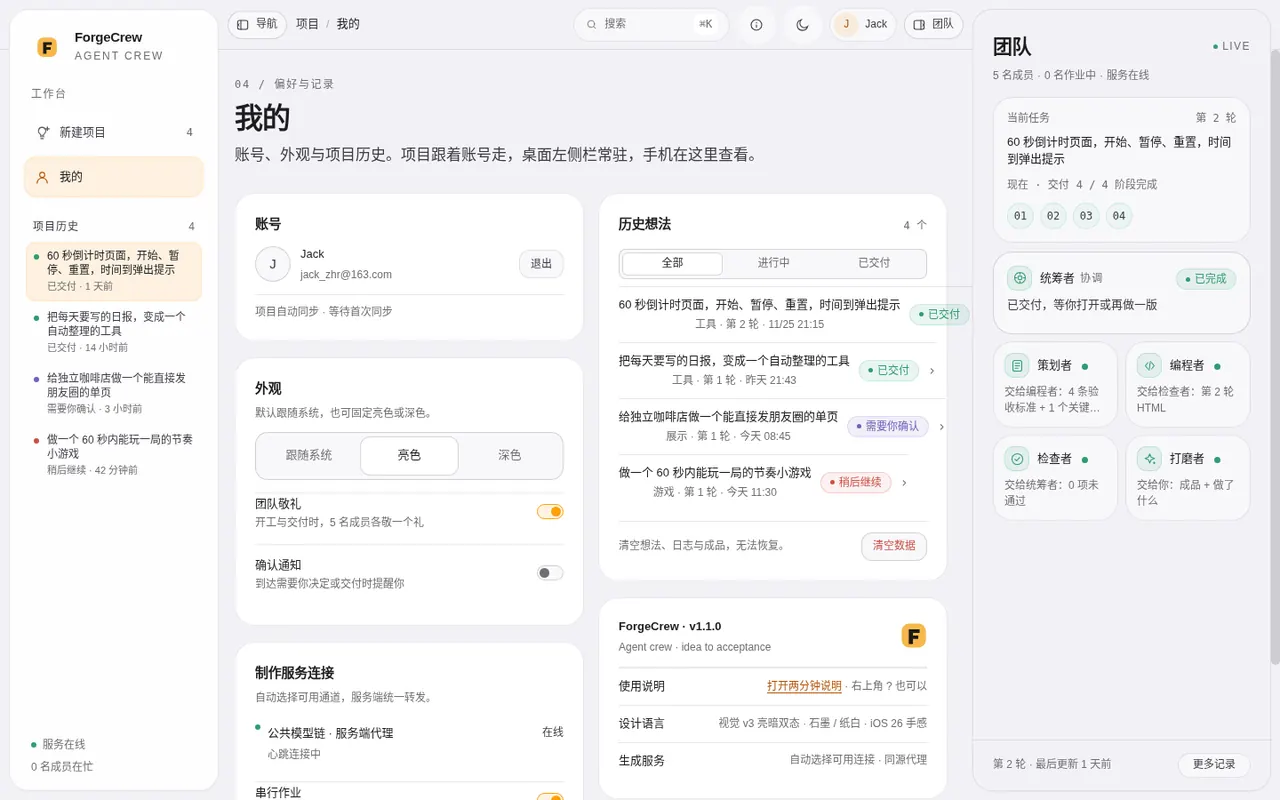
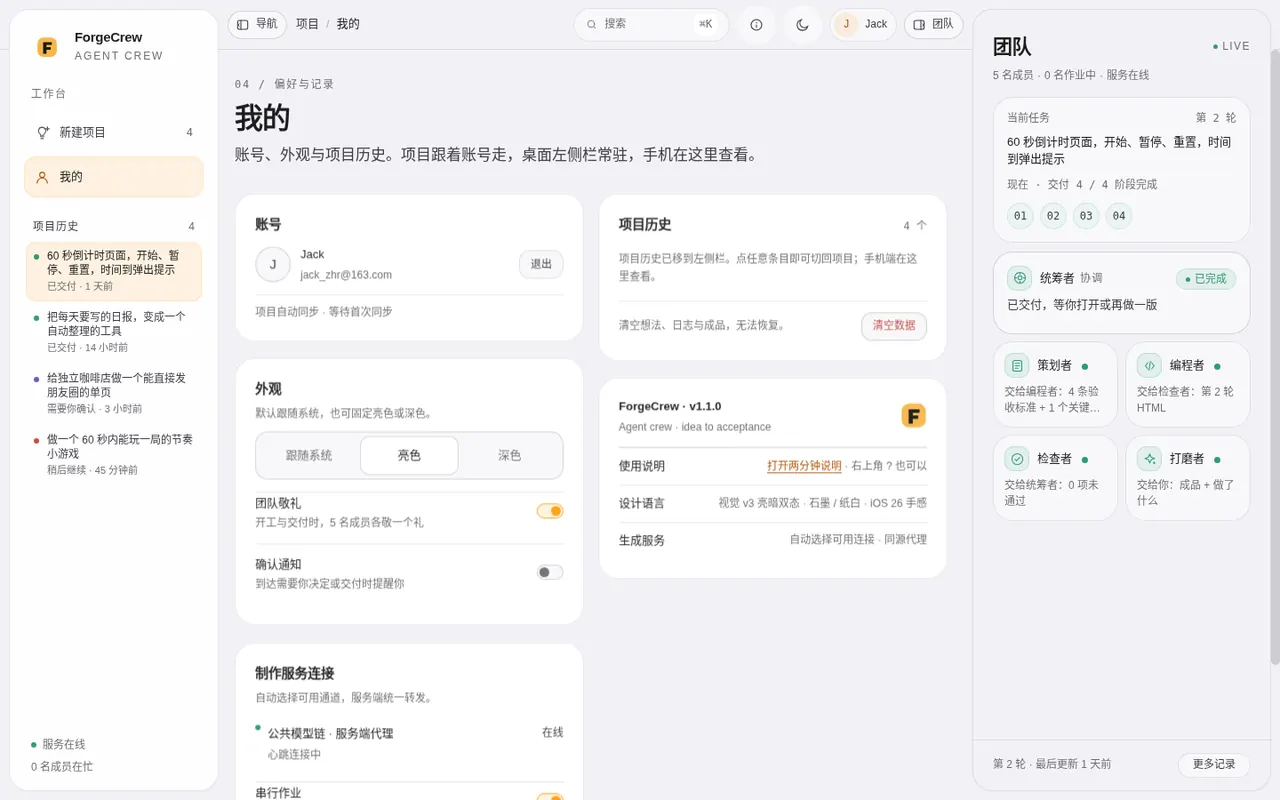
fix: hide duplicate history on desktop profile

diff --git a/web/js/main.js b/web/js/main.js
@@ -1260,7 +1260,7 @@ function guideHtml() {
         <div>
           <h3>账号、外观和项目历史</h3>
           <p>登录后项目跟着账号走。“我的”页可以切换跟随系统 / 深色 / 亮色，打开确认通知，查看今日调用；切换外观会立即生效，不再弹提示。项目历史在桌面左侧栏常驻，手机端在“我的”页查看，点条目就能切回。</p>
-          <figure><a href="/assets/guide/profile.webp" target="_blank" rel="noreferrer"><img src="/assets/guide/profile.webp" alt="我的页账号、外观与项目历史" loading="lazy"></a><figcaption>我的页：账号、外观、服务连接与项目历史。</figcaption></figure>
+          <figure><a href="/assets/guide/profile.webp" target="_blank" rel="noreferrer"><img src="/assets/guide/profile.webp" alt="我的页账号、外观与项目历史" loading="lazy"></a><figcaption>我的页：账号、外观、服务连接；项目历史在左栏，手机在此查看。</figcaption></figure>
         </div>
       </section>
     </div>
@@ -1384,12 +1384,15 @@ function profileHtml() {
     </div>
 
     <div>
-      <div class="panel">
-        <div class="section-head" style="margin-bottom:10px"><h3>历史想法</h3><span class="meta" style="margin-left:auto">${state.projects.length} 个</span></div>
-        <div class="history-tabs segmented" role="tablist">
-          ${['全部', '进行中', '已交付'].map((t, i) => `<button type="button" aria-selected="${i === 0}" style="pointer-events:none">${t}</button>`).join('')}
+      <div class="panel profile-history-panel">
+        <div class="section-head" style="margin-bottom:10px"><h3>项目历史</h3><span class="meta" style="margin-left:auto">${state.projects.length} 个</span></div>
+        <div class="history-moved">项目历史已移到左侧栏。点任意条目即可切回项目；手机端在这里查看。</div>
+        <div class="history-body">
+          <div class="history-tabs segmented" role="tablist">
+            ${['全部', '进行中', '已交付'].map((t, i) => `<button type="button" aria-selected="${i === 0}" style="pointer-events:none">${t}</button>`).join('')}
+          </div>
+          ${historyRowsHtml()}
         </div>
-        ${historyRowsHtml()}
         <div class="danger-zone">
           <span class="txt">清空想法、日志与成品，无法恢复。</span>
           <span class="side"><button class="btn small ghost-danger" id="clear-start" type="button">清空数据</button></span>

diff --git a/web/css/app.css b/web/css/app.css
@@ -680,6 +680,16 @@ input, textarea { font: inherit; color: inherit; }
 .channel-row .txt b { display: block; font-size: 13px; font-weight: 500; color: var(--text); }
 .channel-row .txt span { display: block; margin-top: 4px; font-size: 12px; color: var(--text-3); }
 .channel-row .side { margin-left: auto; font-size: 12px; color: var(--text-2); }
+
+.history-moved { display: none; }
+@media (min-width: 761px) {
+  .profile-history-panel .history-body { display: none; }
+  .profile-history-panel .history-moved {
+    display: block; font-size: 12px; line-height: 1.65; color: var(--text-3);
+    padding: 2px 0 4px;
+  }
+}
+
 .history-tabs { width: 100%; margin: 2px 0 8px; display: flex; }
 .history-tabs button { flex: 1 1 0; min-width: 0; padding: 0 6px; font-size: 12px; white-space: nowrap; letter-spacing: 0; overflow: hidden; text-overflow: ellipsis; }
 .about-product { display: flex; align-items: center; justify-content: space-between; gap: 12px; padding-bottom: 12px; border-bottom: 1px solid var(--line); }

diff --git a/web/index.html b/web/index.html
@@ -7,8 +7,8 @@
 <meta name="description" content="一句话说想法，五个人把它做出来；只在需要你决定时停一次。">
 <meta name="theme-color" content="#0A0A0B">
 <link rel="icon" href="./favicon.svg" type="image/svg+xml">
-<link rel="stylesheet" href="./tokens/motion.css?v=20261126t">
-<link rel="stylesheet" href="./css/app.css?v=20261126t">
+<link rel="stylesheet" href="./tokens/motion.css?v=20261126u">
+<link rel="stylesheet" href="./css/app.css?v=20261126u">
 <script>
   // 主题先于渲染，避免闪白
   (function () {
@@ -40,6 +40,6 @@
   <div id="overlay-root"></div>
   <div class="toasts" id="toast-root" aria-live="polite"></div>
   <div id="palette-root"></div>
-  <script type="module" src="./js/main.js?v=20261126t"></script>
+  <script type="module" src="./js/main.js?v=20261126u"></script>
 </body>
 </html>
